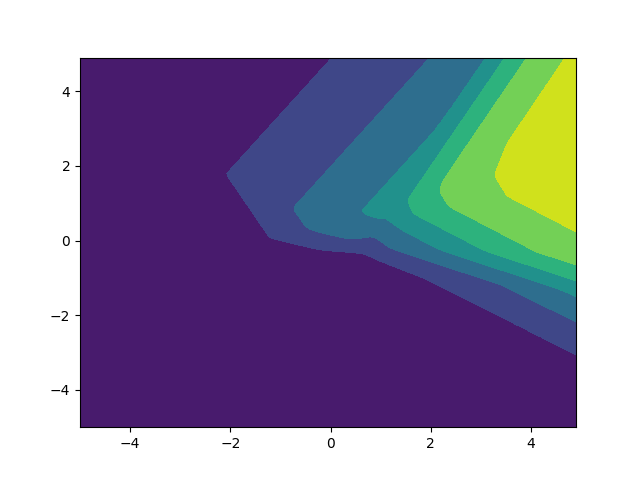
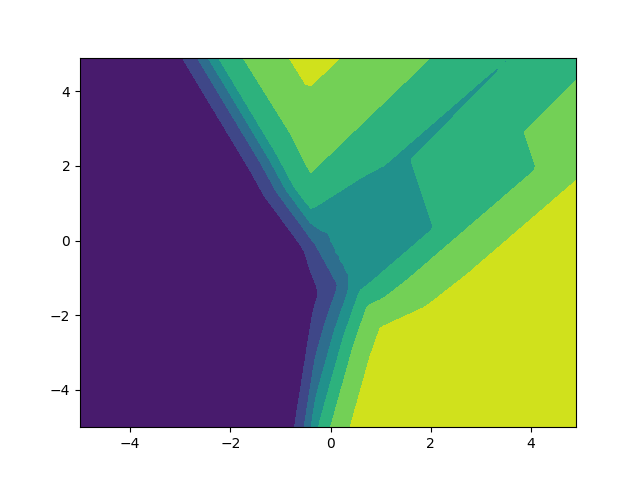
Finish Q1.3 and Q1.4

diff --git a/main.py b/main.py
@@ -62,10 +62,102 @@ def q2():
             plt.savefig('./screenshots/fig2-%d'%(i+1))
         print('done')
 
+def q3():
+    # input
+    num_input = 2
+    X = tf.placeholder(shape=(None, num_input), dtype=tf.float64)
 
+    # hidden unit
+    num_hidden = 2
+    num_hidden_layers = 5
+    w_i = []
+    b_i = []
+    hidden_out = []
+    w_i.append(tf.Variable(np.ones((num_input, num_hidden)), dtype=tf.float64))
+    b_i.append(tf.Variable(np.ones((num_hidden)), dtype=tf.float64))
+    hidden_out.append(tf.nn.relu(tf.add(tf.matmul(X, w_i[0]), b_i[0])))
+    for i in range(1, num_hidden_layers):
+        w_i.append(tf.Variable(np.ones((num_hidden, num_hidden)), dtype=tf.float64))
+        b_i.append(tf.Variable(np.ones((num_hidden)), dtype=tf.float64))
+        hidden_out.append(tf.nn.relu(tf.add(tf.matmul(hidden_out[-1], w_i[-1]), b_i[-1])))
+
+    # output
+    w_o = tf.Variable(np.ones((num_hidden, 1)), dtype=tf.float64)
+    b_o = tf.Variable(np.ones((1)), dtype=tf.float64)
+    y = tf.sigmoid(tf.add(tf.matmul(hidden_out[-1], w_o), b_o))
+
+    with tf.Session() as sess:
+        sess.run(tf.global_variables_initializer())
+        X_raw = [[1, 1], [1, -1], [-1, -1]]
+        for x_raw in X_raw:
+            print(sess.run([hidden_out, y], feed_dict={X: [x_raw]}))
+
+def q4():
+
+    for t in range(10):
+        # input
+        num_input = 2
+        X = tf.placeholder(shape=(None, num_input), dtype=tf.float64)
+
+        # hidden unit
+        num_hidden = 2
+        num_hidden_layers = 5
+        w_i = []
+        b_i = []
+        hidden_out = []
+        w_i.append(tf.Variable(np.random.normal(size=(num_input, num_hidden)), dtype=tf.float64))
+        b_i.append(tf.Variable(np.random.normal(size=(num_hidden)), dtype=tf.float64))
+        hidden_out.append(tf.nn.relu(tf.add(tf.matmul(X, w_i[0]), b_i[0])))
+        for i in range(1, num_hidden_layers):
+            w_i.append(tf.Variable(np.random.normal(size=(num_hidden, num_hidden)), dtype=tf.float64))
+            b_i.append(tf.Variable(np.random.normal(size=(num_hidden)), dtype=tf.float64))
+            hidden_out.append(tf.nn.relu(tf.add(tf.matmul(hidden_out[-1], w_i[-1]), b_i[-1])))
+
+        # output
+        w_o = tf.Variable(np.random.normal(size=(num_hidden, 1)), dtype=tf.float64)
+        b_o = tf.Variable(np.random.normal(size=(1)), dtype=tf.float64)
+        y = tf.sigmoid(tf.add(tf.matmul(hidden_out[-1], w_o), b_o))
+
+        with tf.Session() as sess:
+            sess.run(tf.global_variables_initializer())
+            x1_grid = np.arange(-5, 5, 0.1)
+            x2_grid = np.arange(-5, 5, 0.1)
+            xx1, xx2 = np.meshgrid(x1_grid, x2_grid)
+            xx1_flatten = np.reshape(xx1, (-1, 1))
+            xx2_flatten = np.reshape(xx2, (-1, 1))
+
+            x = np.concatenate([xx1_flatten, xx2_flatten], axis=1)
+            res = sess.run(y, feed_dict={
+                X: x
+            })
+            res = np.reshape(res, xx1.shape)
+            plt.contourf(x1_grid, x2_grid, res)
+            plt.savefig('./screenshots/fig4-%d'%(t+1))
+            print('done')
+
+def q5():
+    # input
+    num_input = 2
+    X = tf.placeholder(shape=(None, num_input), dtype=tf.float64)
+
+    # hidden unit
+    num_hidden = 2
+    w_i = tf.Variable(np.ones((num_input, num_hidden)), dtype=tf.float64)
+    b_i = tf.Variable(np.ones((num_hidden)), dtype=tf.float64)
+    hidden_out = tf.nn.relu(tf.add(tf.matmul(X, w_i), b_i))
+
+    # output
+    w_o = tf.Variable(np.ones((num_hidden, 1)), dtype=tf.float64)
+    b_o = tf.Variable(np.ones((1)), dtype=tf.float64)
+    y = tf.sigmoid(tf.add(tf.matmul(hidden_out, w_o), b_o))
+
+    with tf.Session() as sess:
+        sess.run(tf.global_variables_initializer())
+        print(sess.run([hidden_out, y], feed_dict={X: [[1, 1]]}))
+        print(sess.run([hidden_out, y], feed_dict={X: [[1, -1]]}))
+        print(sess.run([hidden_out, y], feed_dict={X: [[-1, -1]]}))
 
 df = pd.read_csv('data/data.txt', delimiter=' ', names=['x1', 'x2', 'y2'])
 
-q2()
 
 print('done')
